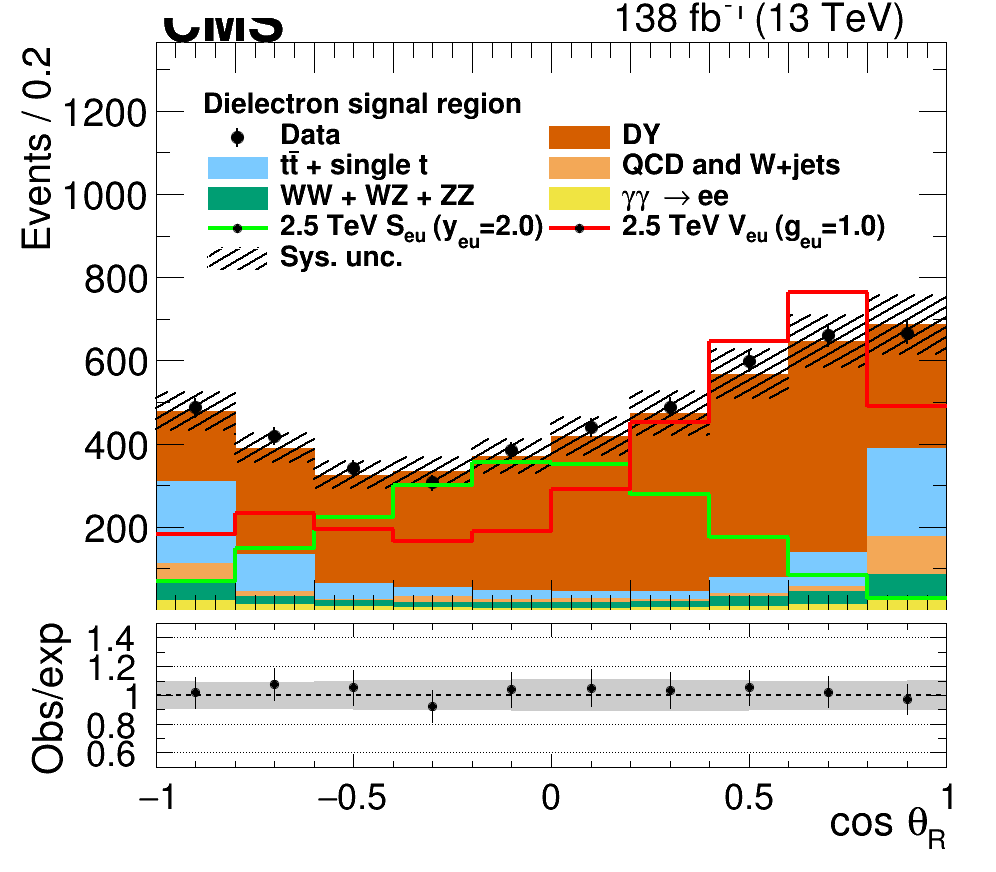
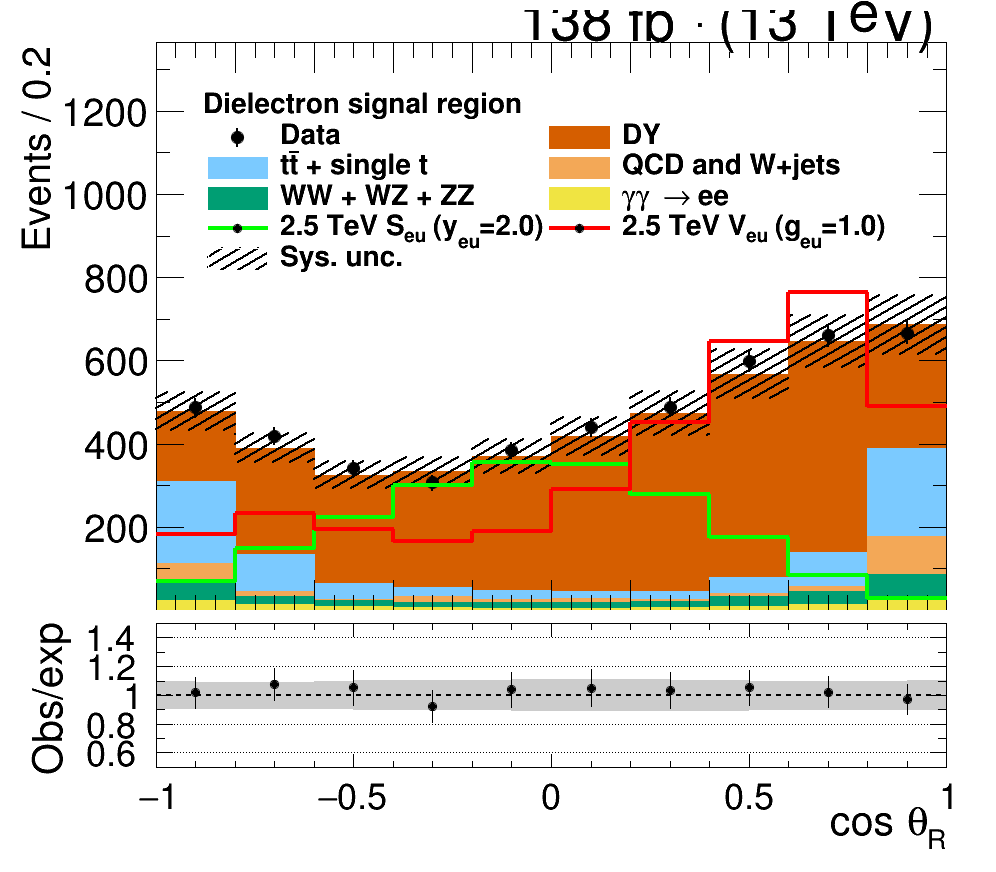
lq norm reduce

Changed region(s): [[0.5291, 0.0, 0.9337, 0.0619], [0.1556, 0.0, 0.2801, 0.0619]]

diff --git a/plots/ElEl/draw_cmp_from_saved.C b/plots/ElEl/draw_cmp_from_saved.C
@@ -427,8 +427,9 @@ void draw_cmp_from_saved(){
     float hmin = 0.001;
     sprintf(y_ax_label, "Events / %.0f GeV", mbin_base);
     std::tie(c_m, p_m) = make_stack_ratio_plot(data_m, m_stack, leg1, "m", "m_{ee} (GeV)",y_ax_label, plot_label, hmax, logy, logx, draw_sys_uncs, ratio_range, false, hmin);
-    CMS_lumi(p_m, year, 11 );
-    //CMS_lumi(c_m, year, 11 );
+    //CMS_lumi(p_m, year, 11 );
+    CMS_lumi(c_m, year, 11 );
+    p_m->cd();
     LQu_m->Draw("hist  same");
     LQu_m->Print("range");
     LQu_vec_m->Draw("hist  same");
@@ -463,8 +464,9 @@ void draw_cmp_from_saved(){
 
     sprintf(y_ax_label, "Events / %.1f", cost_bin_size);
     std::tie(c_cost, p_cost) = make_stack_ratio_plot(data_cost, cost_stack, leg2, "cost", "cos #theta_{R}",y_ax_label, plot_label,  hmax, logy,logx, draw_sys_uncs, ratio_range);
-    CMS_lumi(p_cost, year, 11);
-    //CMS_lumi(c_cost, year, 11 );
+    //CMS_lumi(p_cost, year, 11);
+    CMS_lumi(c_cost, year, 11 );
+    p_cost->cd();
     LQu_cost->Draw("hist  same");
     LQu_vec_cost->Draw("hist  same");
     sprintf(plt_file, "%sElElComb_cost_cmp.png", plot_dir);
@@ -492,8 +494,9 @@ void draw_cmp_from_saved(){
 
     sprintf(y_ax_label, "Events / %.2f", rap_bin_size);
     std::tie(c_rap, p_rap) = make_stack_ratio_plot(data_rap, rap_stack, leg3, "rap", "Dielectron rapidity",y_ax_label, plot_label, hmax, logy, logx, draw_sys_uncs, ratio_range);
-    CMS_lumi(p_rap, year, 11);
-    //CMS_lumi(c_rap, year, 11 );
+    //CMS_lumi(p_rap, year, 11);
+    CMS_lumi(c_rap, year, 11 );
+    p_rap->cd();
     LQu_rap->Draw("hist  same");
     LQu_vec_rap->Draw("hist  same");
     sprintf(plt_file, "%sElElComb_rap_cmp.png", plot_dir);
